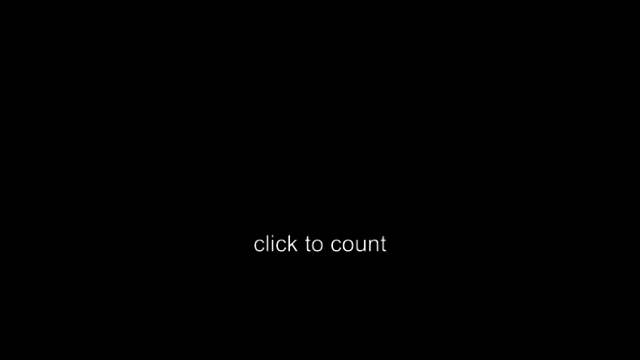
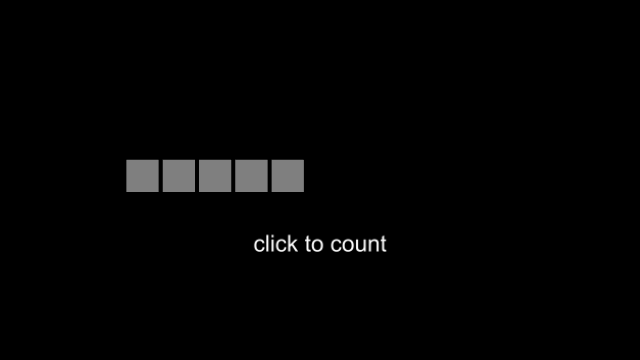
new op patternlookup

Changed region(s): [[0.1875, 0.4278, 0.5, 0.55], [0.375, 0.6417, 0.625, 0.7028]]

diff --git a/src/ops/base/Ops.Gl.TextureEffects.PatternLookup/Ops.Gl.TextureEffects.PatternLookup.js b/src/ops/base/Ops.Gl.TextureEffects.PatternLookup/Ops.Gl.TextureEffects.PatternLookup.js
@@ -1,0 +1,40 @@
+const render=op.inTrigger('render');
+const multiplierTex = op.inTexture("Multiplier");
+const blendMode=CGL.TextureEffect.AddBlendSelect(op,"Blend Mode","normal");
+const amount=op.inValueSlider("Amount",1);
+const trigger=op.outTrigger('trigger');
+
+const patternWidth=op.inValueSlider("Width",0.1);
+const patternHeight=op.inValueSlider("Height",0.1);
+
+
+const cgl=op.patch.cgl;
+const shader=new CGL.Shader(cgl);
+
+shader.setSource(shader.getDefaultVertexShader(),attachments.patternlookup_frag);
+
+const textureUniform=new CGL.Uniform(shader,'t','tex',0);
+const textureMultiplierUniform=new CGL.Uniform(shader,'t','patternTex',1);
+const amountUniform =new CGL.Uniform(shader,'f','amount',amount);
+const ptrnWidthUniform =new CGL.Uniform(shader,'f','patternWidth',patternWidth);
+const patternHeightUniform =new CGL.Uniform(shader,'f','patternHeight',patternHeight);
+
+CGL.TextureEffect.setupBlending(op,shader,blendMode,amount);
+
+render.onTriggered=function()
+{
+    if(!CGL.TextureEffect.checkOpInEffect(op)) return;
+
+    cgl.setShader(shader);
+    cgl.currentTextureEffect.bind();
+
+    cgl.setTexture(0, cgl.currentTextureEffect.getCurrentSourceTexture().tex );
+
+    if(multiplierTex.get()) cgl.setTexture(1, multiplierTex.get().tex );
+
+    cgl.currentTextureEffect.finish();
+    cgl.setPreviousShader();
+
+    trigger.trigger();
+};
+

diff --git a/src/ops/base/Ops.TimeLine.TimeLinePlayer/Ops.TimeLine.TimeLinePlayer.js b/src/ops/base/Ops.TimeLine.TimeLinePlayer/Ops.TimeLine.TimeLinePlayer.js
@@ -15,7 +15,7 @@ const
 play.onTriggered=function()
 {
     op.patch.timer.play();
-    isPlaying.set(true);
+
     op.patch.timer.setTime(setTime.get());
     outSetTimeTrigger.set(setTime.get());
     outPlayTrigger.trigger();
@@ -24,7 +24,6 @@ play.onTriggered=function()
 pause.onTriggered=function()
 {
     op.patch.timer.pause();
-    isPlaying.set(false);
     outPauseTrigger.trigger();
 };
 
@@ -33,6 +32,7 @@ op.onAnimFrame=function(time)
 {
     currentFrame.set(Math.round(time*30.0));
     currentTime.set(time);
+    isPlaying.set(op.patch.timer.isPlaying());
 };
 
 rewind.onTriggered=function()
@@ -40,4 +40,5 @@ rewind.onTriggered=function()
     op.patch.timer.setTime(0);
     outrewindTrigger.trigger();
 };
+
 

diff --git a/src/ops/base/Ops.Gl.Shader.BasicMaterial_v2/Ops.Gl.Shader.BasicMaterial_v2.js b/src/ops/base/Ops.Gl.Shader.BasicMaterial_v2/Ops.Gl.Shader.BasicMaterial_v2.js
@@ -5,6 +5,9 @@ shaderOut.ignoreValueSerialize=true;
 
 const cgl=op.patch.cgl;
 
+
+
+
 op.toWorkPortsNeedToBeLinked(render,trigger);
 
 const shader=new CGL.Shader(cgl,"basicmaterialnew");
